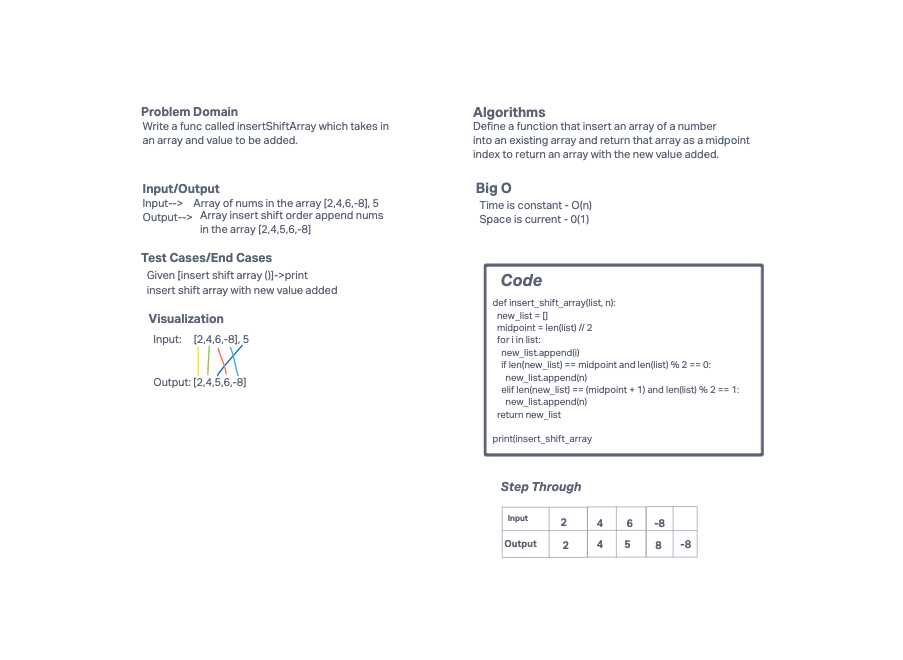
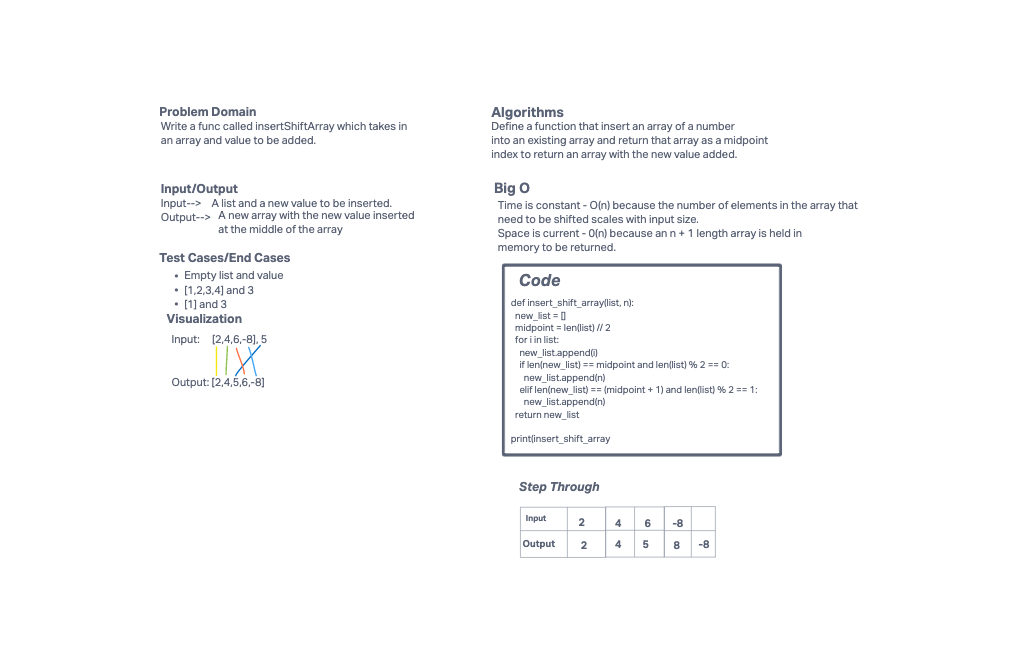
README revised

diff --git a/python/docs/array_insert_shift/README.md b/python/docs/array_insert_shift/README.md
@@ -1,8 +1,14 @@
 # Insert to Middle of an Array
 <!-- Description of the challenge -->
-
+This code challenge is called insertShiftArray
 ## Whiteboard Process
 <!-- Embedded whiteboard image -->
 ![Whiteboard Image](./array_insert_shift.png)
 ## Approach & Efficiency
 <!-- What approach did you take? Discuss Why. What is the Big O space/time for this approach? -->
+I used replit is assist me with rendering my code accordingly for optimal approach of returning an array with the new value added at the middle index.
+
+Big O
+
+- Time: O(n) because the number of the element in the array that need to be shifted scales with input size.
+- Space: O(n) because an N + 1 length array is held in memory to be returned.
